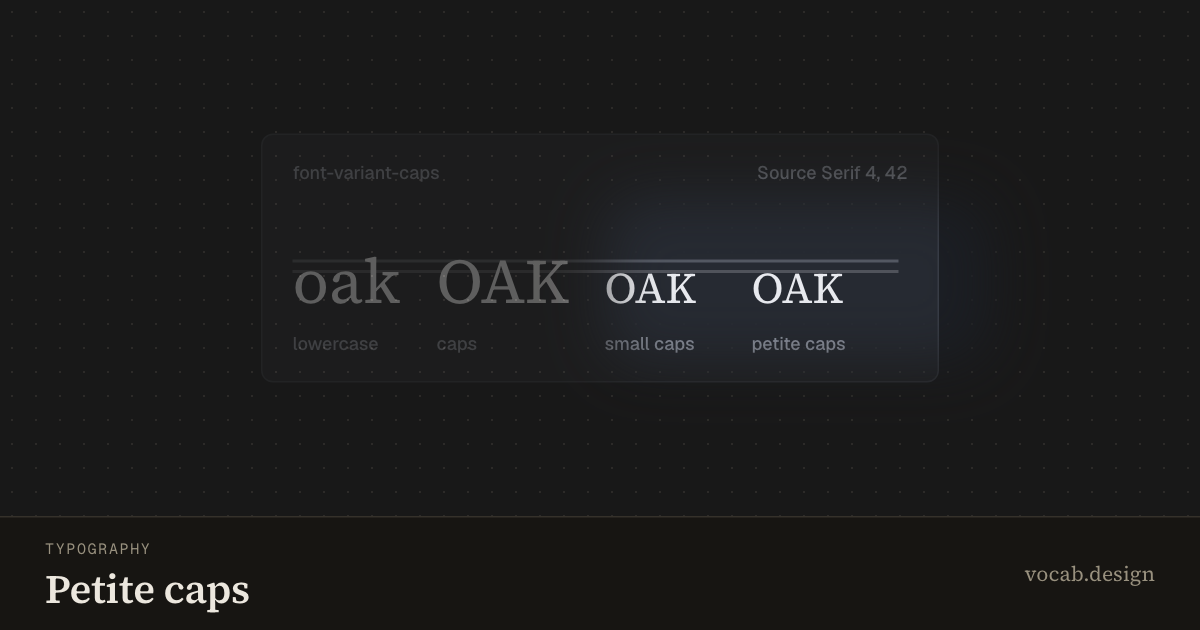
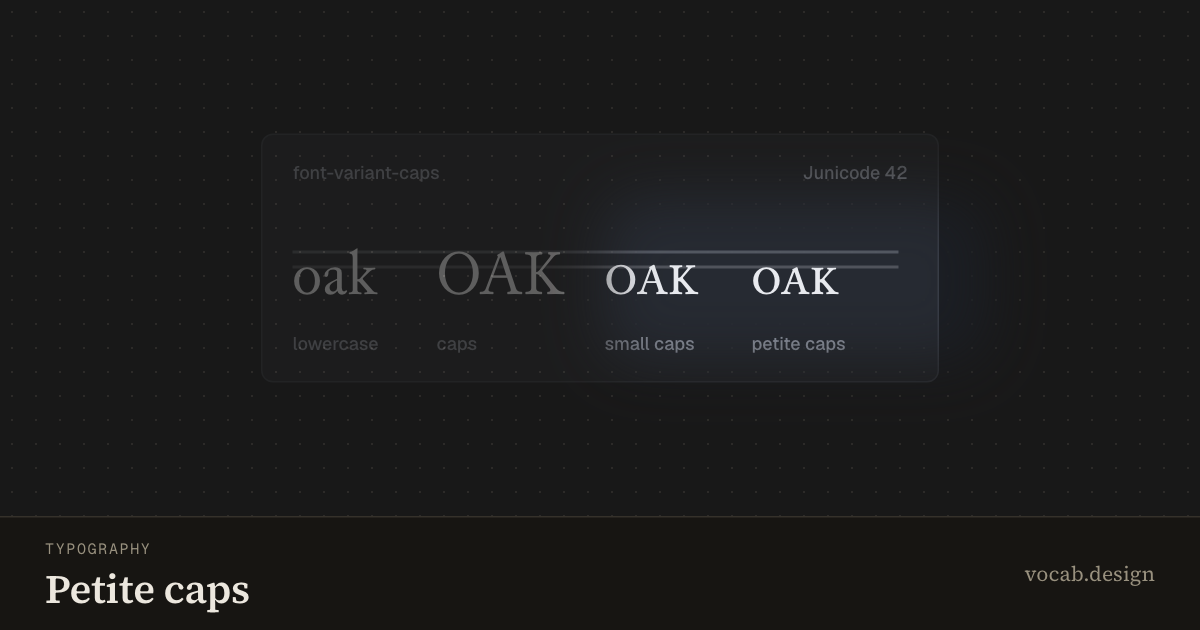
Show a petite capital instead of explaining why there isn't one
The last commit left this specimen making both requests, measuring the two runs
at mount and printing a verdict about which one the reader's browser had
honoured. It was true, it was measured, and it was worthless: a reader wants to
see the letters, not a report on their absence. A verdict that explains why the
picture is not the term is still the author's voice standing in front of it.

The face existed the whole time. Junicode carries a real pcap set (and smcp,
c2sc, c2pc), which no face on any registry I measured does, and it is published
only as a GitHub release. So it is vendored: instanced to one weight, subset to
Latin with the caps features kept, 978KB down to 25KB, with its OFL text and the
exact build commands beside it in src/fonts/.

The specimen is now four samples of one word, ruled at the face's own cap height
and x-height. The small caps clear the x-height rule; the petite caps stop on it.
That is the term, and it needs no sentence under it, so the strip is empty.

SPEC and AGENTS said to demonstrate the fallback and measure it where no file
answers. They now say to look past the registry first, and that a specimen which
truly cannot be built is the article's problem to explain, never a line of the
author's voice hung under the exhibit.

Changed region(s): [[0.37, 0.3921, 0.74, 0.4825], [0.2467, 0.3921, 0.3392, 0.4825], [0.6475, 0.2714, 0.74, 0.3016]]

diff --git a/src/content/demos/petite-caps/demo.ts b/src/content/demos/petite-caps/demo.ts
@@ -1,30 +1,29 @@
-import { part } from '#src/kit/parts.ts';
-
 /*
- * Nothing here is drawn: every sample is a real request, made of the face this
- * site already loads, and the specimen reports what the reader's own browser did
- * with it. That reporting is the point. `pcap` is the one feature in this corner
- * of the vocabulary that essentially no font ships, and the specified answer to a
- * missing `pcap` is the small-caps set, so the honest demonstration is the two
- * requests side by side plus a verdict that says whether they came back the same.
+ * Real petite capitals, from a file that has them. `pcap` is the rarest thing in
+ * this corner of OpenType: measured against every face this site loads and nine
+ * more from Google's library, not one answers the request, and a browser given
+ * nothing to answer with substitutes the small-caps set silently. Junicode does
+ * answer it, so it is vendored and cut down to 25KB (`src/fonts/README.md`), and
+ * the third and fourth samples below are two different sets of drawings rather
+ * than one set drawn twice.
  *
- * Which is also why the verdict is measured rather than written. "No browser here
- * honours petite-caps" was true of the machine this was authored on and said
- * nothing about the machine it is read on; comparing the two runs at mount says
- * something about the machine it is read on and nothing else.
+ * Which is the whole reason this file changed. The specimen used to draw its own
+ * petite capitals by shrinking the caps, and print a line under them saying so.
+ * A reader does not want to be told the picture is a stand-in, and does not want
+ * a paragraph about `pcap` availability either. They want to see the letters.
  */
-const FACE = "'Source Serif 4 Variable', Georgia, serif";
+const FACE = "'Junicode', 'Source Serif 4 Variable', Georgia, serif";
 const SIZE = 42;
 /** A guide the stage can read is a box, never a hairline (SPEC §8). */
 const RULE = 2;
 /** The window's inner width, which the guides span. */
 const SPAN = 404;
-/** Each column is set to its own sample's width at this size, and they total the span. */
 
 const WORD = 'oak';
 
 type Sample = { part: string; label: string; text: string; caps: string; width: number };
 
+/** Each column is set to its own sample's width at this size, and they total the span. */
 const SAMPLES: Sample[] = [
   { part: 'lower', label: 'lowercase', text: WORD, caps: 'normal', width: 96 },
   { part: 'caps', label: 'caps', text: WORD.toUpperCase(), caps: 'normal', width: 112 },
@@ -32,41 +31,32 @@ const SAMPLES: Sample[] = [
   { part: 'petite', label: 'petite caps', text: WORD, caps: 'petite-caps', width: 98 },
 ];
 
-const VERDICT = {
-  same: 'The petite request came back drawn exactly like the small-caps one: this face has no pcap set, and the substitution the spec asks for is the one on screen.',
-  distinct: 'The petite request came back shorter than the small-caps one, so this face answered with a real pcap set of its own.',
-} as const;
-
 /**
- * Petite caps specimen: the same three letters four ways on one baseline, ruled at
- * the two heights that decide the argument. The lowercase sample says where the
- * x-height rule comes from, the capitals reach the cap rule, and the last two are
- * the same word asking for small caps and for petite caps. The term is where the
- * petite drawing should stop, which is why the rules are drawn rather than
- * described: a claim about a height is only readable against a line.
+ * Petite caps specimen: one word four ways on one baseline, ruled at the two
+ * heights that decide the argument. The lowercase sample says where the x-height
+ * rule comes from, the capitals reach the cap rule, the face's own small caps
+ * clear the x-height rule by a little, and the petite capitals stop exactly on
+ * it. That last alignment is the term, which is why the rules are drawn rather
+ * than described: a claim about a height is only readable against a line.
  *
  * The whole claim is visible at rest, so the choreography is a still one (SPEC §8):
  * there is no second state here, only four drawings of one word that have to be
- * looked at side by side.
+ * looked at side by side. For the same reason the strip is empty: there is no mode
+ * switch to label and no state to read out, and a sentence in the author's voice
+ * hung under a picture that already makes the point is worth nothing to a reader.
  *
  * The subject is the petite-caps run (SPEC §5), the narrowest element the term
  * names: not the comparison, not the rules, and not the label under it. The other
- * three samples, the rules, the labels and the verdict are the demo's own
- * instrumentation and stay in the context register.
+ * three samples, the rules and the labels are the demo's own instrumentation and
+ * stay in the context register.
  *
- * A chip under the row once read "the small caps clear the x-height rule, the
- * petite caps stop on it", and the header called the sheet "Avenir Next, one word,
- * four heights". Both were the site reading the drawing out loud inside a specimen
- * sheet that would only ever print the face and the property, so the chip went and
- * the header now names the face and its size.
- *
- * The one measurement is taken at mount, on the state that is mounted, and it is a
- * comparison of two runs against each other rather than against a number, so it is
- * free of the stage's scale (SPEC §5). The rules are hung off a zero-height carrier
+ * Nothing is measured at runtime. The rules are hung off a zero-height carrier
  * whose bottom edge inline layout puts on the baseline, and they are placed by the
  * font's own `ex` and `cap` units (with an em approximation first, for a browser
  * that does not know `cap`), so the ruling is the face's answer rather than the
- * demo's guess.
+ * demo's guess: Junicode reports a cap height of 0.663em and an x-height of
+ * 0.418em, and both agree with its own drawings to within a third of a pixel at
+ * 100px.
  */
 export function mount(root: HTMLElement): void {
   const guide = (name: string, bottom: string, color: string) =>
@@ -83,7 +73,7 @@ export function mount(root: HTMLElement): void {
   /* The carrier holds nothing in flow: any whitespace inside it would open a line
      box and take its baseline off the text's own, which is where the rules hang. */
   const rules =
-    guide('rule-cap', 'bottom: calc(0.67em - 1px); bottom: calc(1cap - 1px)', 'color-mix(in oklab, var(--sp-accent) 35%, transparent)') +
+    guide('rule-cap', 'bottom: calc(0.663em - 1px); bottom: calc(1cap - 1px)', 'color-mix(in oklab, var(--sp-accent) 35%, transparent)') +
     guide('rule-x', 'bottom: calc(1ex - 1px)', 'color-mix(in oklab, var(--sp-ink) 22%, transparent)');
 
   const caption = ({ part: name, label, width }: Sample) =>
@@ -94,25 +84,14 @@ export function mount(root: HTMLElement): void {
       <div class="sp-window" style="width: 452px">
         <div class="sp-row sp-row--between sp-context">
           <span class="sp-label">font-variant-caps</span>
-          <span class="sp-label">Source Serif 4, 42</span>
+          <span class="sp-label">Junicode 42</span>
         </div>
         <div data-part="samples" style="position: relative; height: 82px; margin-top: 14px; font-family: ${FACE};
              font-size: ${SIZE}px; line-height: 1.1">
           <span style="position: absolute; left: 0; bottom: 10px; width: ${SPAN}px"><i class="sp-context" style="position: relative; display: inline-block; width: 0; height: 0; vertical-align: baseline">${rules}</i>${SAMPLES.map(sample).join('')}</span>
         </div>
         <div class="sp-context" data-part="labels" style="white-space: nowrap; font-size: 0">${SAMPLES.map(caption).join('')}</div>
-        <p class="sp-text sp-context" data-stage-verdict data-part="caption" style="margin-top: 2px"></p>
       </div>
     </div>
   `;
-
-  /* Two runs of the same word in the same face at the same size: if the browser
-     answered both requests with the same drawings, they are the same width. The
-     comparison is a ratio of the two boxes rather than a distance in pixels, because
-     a stage showing this specimen at half size would halve any gap between them and
-     a threshold in px would quietly move with it (SPEC §5). */
-  const petite = part(root, 'run-petite').getBoundingClientRect().width;
-  const small = part(root, 'run-small').getBoundingClientRect().width;
-  const apart = Math.abs(petite - small) / Math.max(petite, small, 1);
-  part(root, 'caption').textContent = apart < 0.005 ? VERDICT.same : VERDICT.distinct;
 }

diff --git a/src/content/demos/petite-caps/choreography.ts b/src/content/demos/petite-caps/choreography.ts
@@ -19,6 +19,6 @@ export default steps([
   { assert: { selector: '[data-part=run-small]', state: 'visible' } },
   { assert: { selector: '[data-part=label-petite]', state: 'visible' } },
   { wait: 900 },
-  { assert: { selector: '[data-part=caption]', state: 'visible' } },
+  { assert: { selector: '[data-part=label-small]', state: 'visible' } },
   { wait: 700 },
 ]);

diff --git a/.claude/skills/specimen-sweep/COMPLAINTS.md b/.claude/skills/specimen-sweep/COMPLAINTS.md
@@ -1193,9 +1193,18 @@ complete; until then entries only accumulate. Entry format:
   unavailable" row is now the same text in the page's sans, so the tofu is the browser's),
   `grade-axis` on Roboto Flex (real `GRAD` against real `wght`, and the marker that does
   not move is layout's own report), `oldstyle-figures` on Vollkorn (whose oldstyle set is
-  the default, so the switch turns `lnum` ON). `petite-caps` keeps no face: it makes both
-  requests and MEASURES the two runs at mount, so the verdict is about the reader's
-  browser instead of the author's.
+  the default, so the switch turns `lnum` ON), `petite-caps` on Junicode.
+- **`petite-caps` took two goes, and the first one is the lesson.** Believing no face
+  carried `pcap`, it shipped a specimen that made both requests and MEASURED the two runs
+  at mount, printing a verdict about which one the reader's browser had honoured. That is
+  defensible engineering and a bad specimen, and the user's reply is the rule now: "As a
+  reader, I wouldn't care about that. Just show me a petite-cap." A verdict explaining why
+  the picture is not the term is still the author's voice, however true and however well
+  measured. The face existed the whole time: Junicode has real `pcap`, `smcp`, `c2sc` and
+  `c2pc`, is on no registry (GitHub release only), and subsets from 978KB to 25KB with
+  fonttools. It is vendored under `src/fonts/` with its OFL text and the exact build
+  commands. The specimen now draws four samples and NO verdict at all, so its strip is
+  empty.
 - Declaration lives in `src/components/SpecimenFonts.astro`, imported by `Base.astro` and
   `/capture/[slug]`, because `@font-face` inside a shadow root is ignored by Chrome.
 - Three probe traps, each of which produced a confident false negative: a hand-written

diff --git a/src/fonts/README.md b/src/fonts/README.md
@@ -1,0 +1,32 @@
+# Vendored faces
+
+One file, and it is here rather than in `package.json` because it exists on no
+registry. Everything else a specimen needs comes from a package (see
+`src/components/SpecimenFonts.astro`).
+
+## junicode-latin.woff2
+
+Junicode 2.226 by Peter S. Baker, [OFL 1.1](./Junicode-OFL.txt), from
+[psb1558/Junicode-font](https://github.com/psb1558/Junicode-font). The copyright
+line names no Reserved Font Name, so a subset may keep the family name.
+
+It is here for one reason: it carries a REAL `pcap` set. Petite capitals are the
+rarest thing in this corner of OpenType, and after measuring nine serifs from
+Google's library and every face this site already loads, Junicode is the only
+file found that answers the request rather than falling back to small caps. The
+`petite-caps` specimen is a picture of the two sets side by side, which is only a
+picture if the two are actually different drawings.
+
+Built from `webfiles/JunicodeVF-Roman.woff2` (978KB, three axes, 5,033 glyphs)
+down to 25KB, with `fonttools` in a throwaway virtualenv:
+
+```
+python -m fontTools.varLib.instancer JunicodeVF-Roman.woff2 wght=400 wdth=100 ENLA=0 -o juni-static.ttf
+pyftsubset juni-static.ttf --unicodes="U+0020-007E,U+00A0" \
+  --layout-features="smcp,pcap,c2sc,c2pc,kern,liga,calt,ccmp,locl" \
+  --flavor=woff2 --output-file=junicode-latin.woff2
+```
+
+Keep `pcap` and `smcp` in that feature list if it is ever rebuilt: dropping them
+would not fail any gate, it would quietly turn the specimen back into two
+identical samples.

diff --git a/SPEC.md b/SPEC.md
@@ -820,9 +820,15 @@ component library would save — without the branding or churn.
   and measure before authoring against it: a web subset of a family commonly keeps
   `calt` and drops all ten `ssXX` tables, and the evidence is rendered pixels, never
   an advance width (a grade axis is defined by not changing one). The budget above is
-  about a demo's own fetches, not about a document declaring a face. Where no file in
-  the world answers (`pcap`), the specimen demonstrates the real fallback and MEASURES
-  it at mount, so the verdict is about the browser reading it.
+  about a demo's own fetches, not about a document declaring a face. **Look past the
+  registry before concluding a feature cannot be shown.** `pcap` is the hardest case in
+  the whole vocabulary, and the first answer here was a specimen that made both requests
+  and printed a measured verdict about which one the browser honoured, which is a report
+  where a reader wanted a picture. The face exists: Junicode carries a real petite-caps
+  set, is on no package registry at all, and is vendored under `src/fonts/` at 25KB with
+  its licence beside it. A specimen that genuinely cannot be built is the ARTICLE's
+  problem to explain at length, never a line of the author's voice hung under the
+  exhibit.
 - **The stage owns the clock.** A demo's only timer is the one `mount()` is handed.
   The stage freezes it to pose the specimen and stops it on remount, neither of which
   it can do to a timer taken from the global scope: that one keeps running under a

diff --git a/AGENTS.md b/AGENTS.md
@@ -730,9 +730,13 @@ never fires under reduced motion, so nothing may ever wait on it.
   Fontsource because Google's subsetter keeps `calt` and drops every `ssXX` table.
   Measure a file before authoring against it, by RENDERING and comparing pixels: an
   advance width proves nothing (a grade axis is defined by not changing one), and
-  documentation about a family says nothing about the file that ships. Where no file
-  answers at all (`pcap`), the specimen demonstrates the fallback and measures it at
-  mount, so the verdict speaks about the reader's browser rather than the author's.
+  documentation about a family says nothing about the file that ships. And look past
+  npm before deciding a feature cannot be shown: `pcap` is carried by Junicode, which is
+  on no registry, so it is vendored under `src/fonts/` (25KB, subset with fonttools, OFL
+  text beside it, provenance in `src/fonts/README.md`). A measured verdict reporting
+  which request the browser honoured is NOT the fallback for a missing face: it is a
+  report where the reader wanted a picture. If a specimen truly cannot be built, the
+  article explains the limit and the strip stays empty.
 - **Demos have no stylesheet.** A demo is `innerHTML` plus inline styles, so anything
   needing a pseudo-element, a keyframe, a media query, or a state-attribute rule has
   to be a kit class. That is the test for whether something belongs in `src/kit/`:
